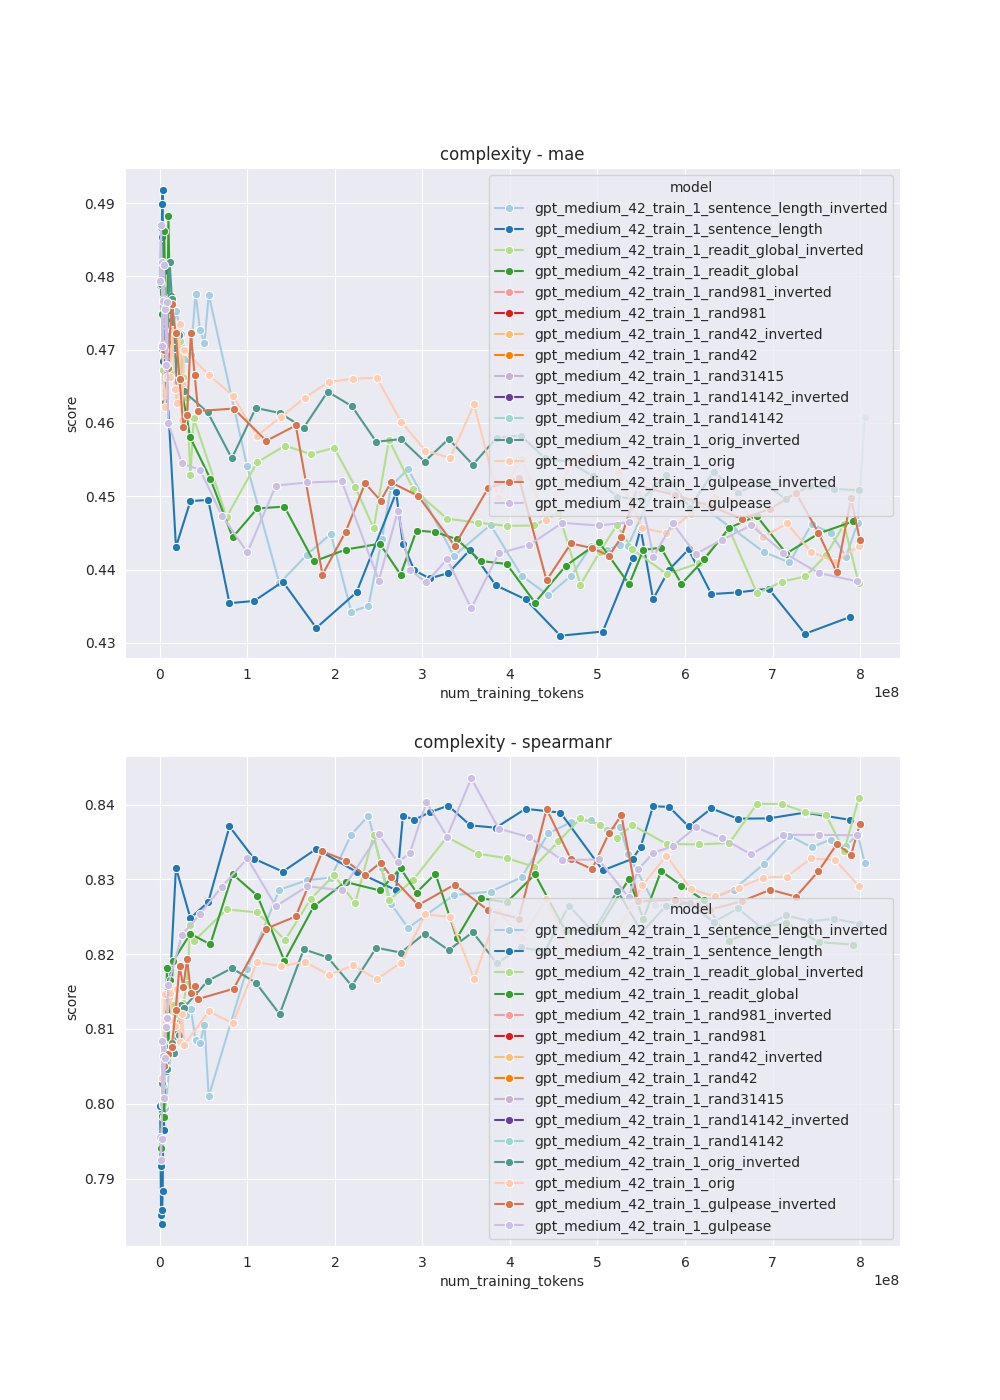
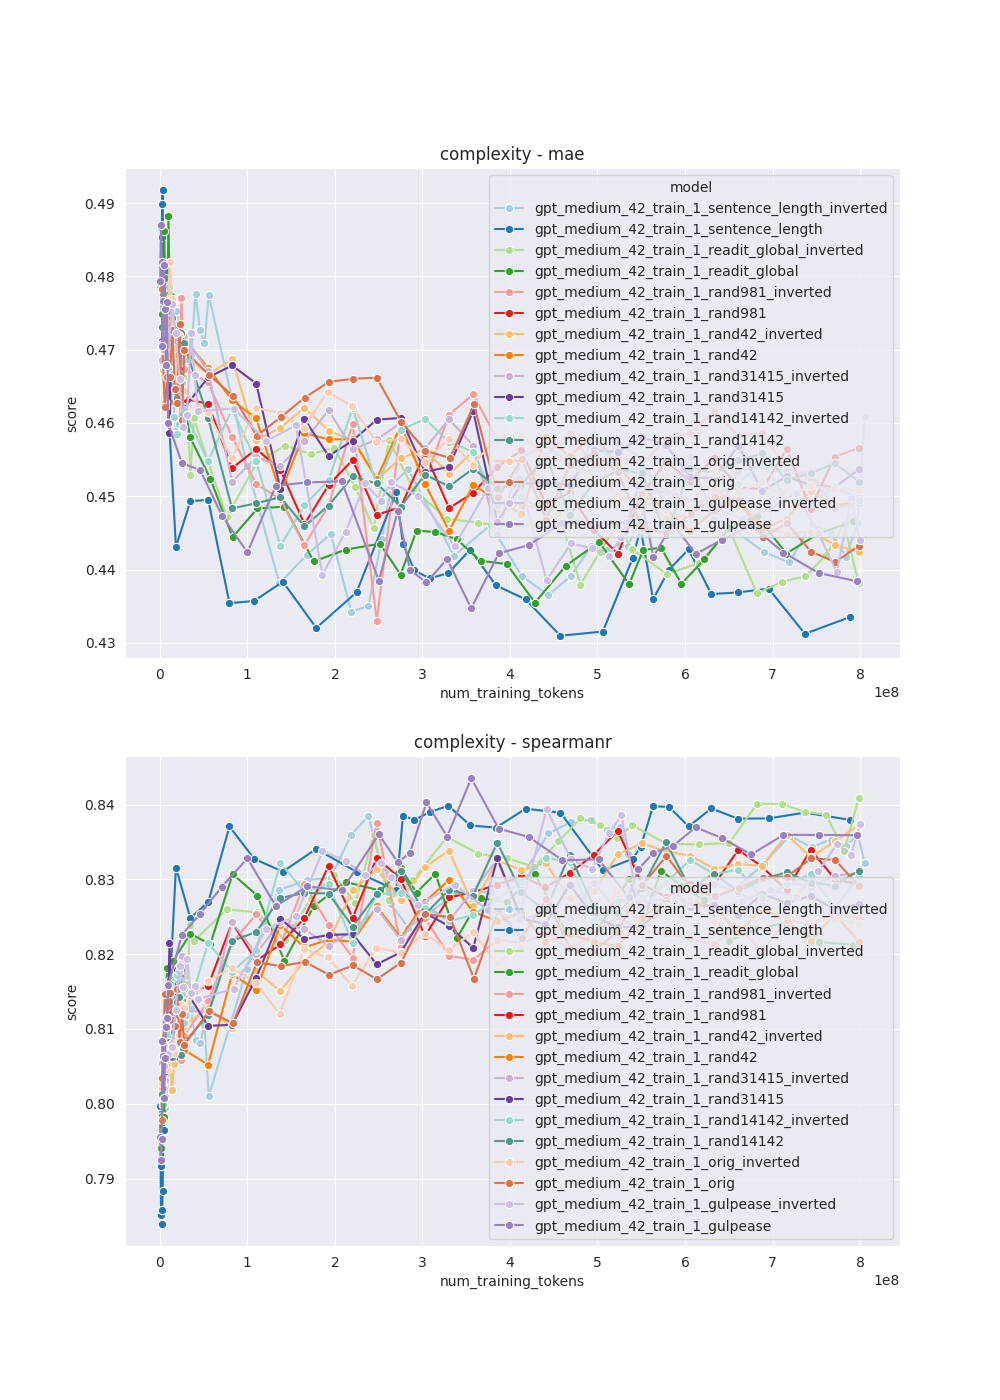
loaded gpt results

Changed region(s): [[0.155, 0.5836, 0.899, 0.86], [0.155, 0.1843, 0.868, 0.43], [0.465, 0.5529, 0.496, 0.5836]]

diff --git a/scripts/eval/downstream_task_eval.py b/scripts/eval/downstream_task_eval.py
@@ -63,13 +63,13 @@ def get_task_results(models_dir, downstream_task, model_seed=None, average_rando
     for model_name in os.listdir(models_dir):
         if model_seed is None or f'{model_seed}_train' in model_name:
             model_df = get_model_results(models_dir, model_name, downstream_task, average_metrics)
-            model_df['model'] = normalize_model_name(model_name, model_seed, average_random)
+            model_df['model'] = model_name #normalize_model_name(model_name, model_seed, average_random)
             res_df.append(model_df)
     res_df = pd.concat(res_df)
     return res_df
 
 
-def plot_results(res_df, task, output_path, checkpoint_tokens_map=None, average_random=False, max_checkpoint=None, metric_name=None):
+def plot_results(res_df, task, output_path, model_seed, checkpoint_tokens_map=None, average_random=False, max_checkpoint=None, metric_name=None):
     sorted_models = HUE_ORDER if average_random else sorted(list(res_df['model'].unique()), reverse=True)
     # sorted_models[0], sorted_models[-1] = sorted_models[-1], sorted_models[0]    
     palette = get_seaborn_palette(len(sorted_models))
@@ -79,6 +79,8 @@ def plot_results(res_df, task, output_path, checkpoint_tokens_map=None, average_
 
     if checkpoint_tokens_map is not None:
         res_df = map_checkpoints_to_tokens(res_df, checkpoint_tokens_map)
+    
+    res_df['model'] = res_df['model'].apply(lambda x: normalize_model_name(x, model_seed, average_random))
 
     x_key = 'num_training_tokens' if checkpoint_tokens_map is not None else 'checkpoint'
 
@@ -123,7 +125,7 @@ def main():
     average_metrics = True if args.downstream_task == 'sentiment' else False
     models_dir = f'models/downstream_tasks/{args.model_name}/{args.downstream_task}'
     res_df = get_task_results(models_dir, args.downstream_task, model_seed=args.model_seed, average_random=args.average_random, average_metrics=average_metrics)
-    plot_results(res_df, args.downstream_task, output_path, checkpoint_tokens_map, average_random=args.average_random, )#, metric_name='avg f1')
+    plot_results(res_df, args.downstream_task, output_path, args.model_seed, checkpoint_tokens_map, average_random=args.average_random, )#, metric_name='avg f1')
 
 if __name__ == '__main__':
     main()
